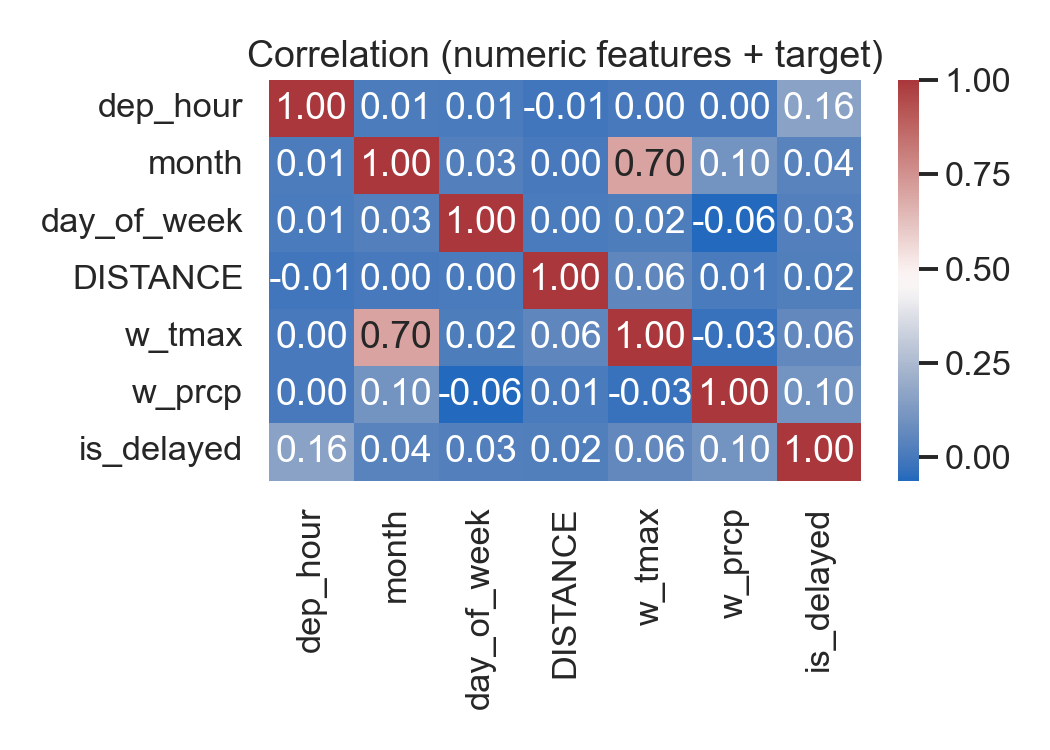
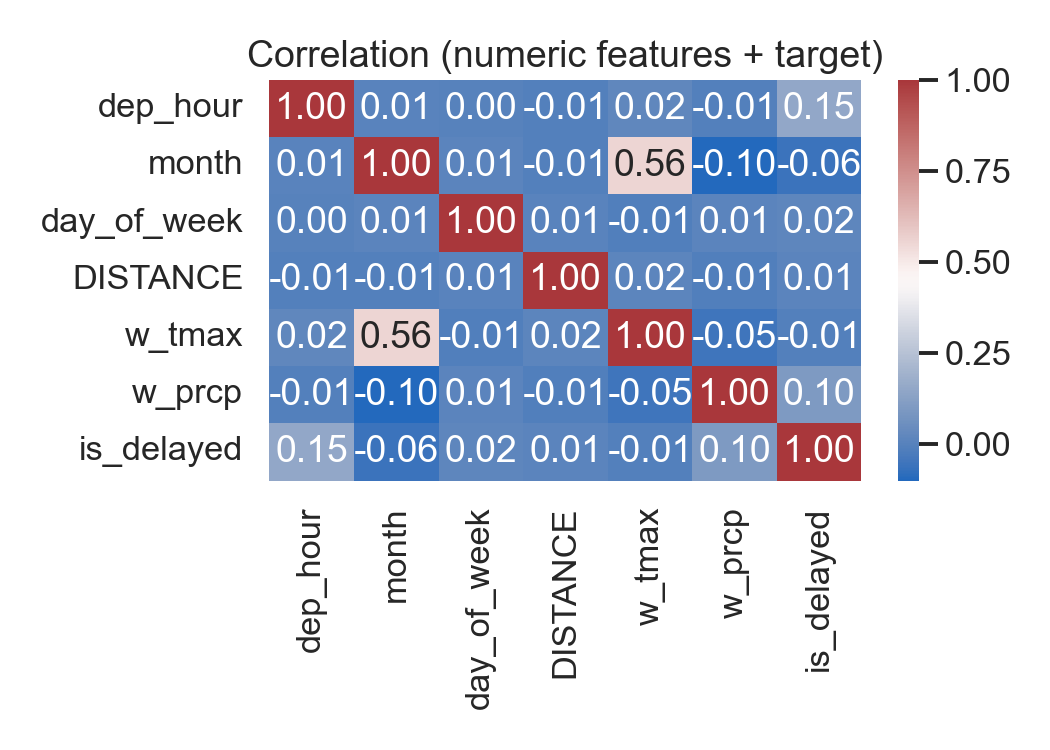
regenerating EDA on retrained data

diff --git a/reports/eda_summary.md b/reports/eda_summary.md
@@ -9,35 +9,34 @@
 ## 2) Summary statistics (key numeric features)
 | stat | dep_hour | month | day_of_week | DISTANCE | w_tmax | w_prcp |
 |---|---|---|---|---|---|---|
-| count | 150000.00 | 150000.00 | 150000.00 | 150000.00 | 2765.00 | 2556.00 |
-| mean | 13.47 | 3.59 | 2.99 | 809.49 | 20.17 | 3.48 |
-| std | 4.93 | 1.70 | 2.01 | 588.12 | 10.36 | 9.26 |
-| min | 0.02 | 1.00 | 0.00 | 31.00 | -22.70 | 0.00 |
-| 25% | 9.17 | 2.00 | 1.00 | 383.00 | 12.80 | 0.00 |
-| 50% | 13.38 | 4.00 | 3.00 | 657.00 | 20.60 | 0.00 |
-| 75% | 17.58 | 5.00 | 5.00 | 1050.00 | 28.90 | 2.00 |
-| max | 23.98 | 6.00 | 6.00 | 5095.00 | 45.00 | 90.40 |
+| count | 150000.00 | 150000.00 | 150000.00 | 150000.00 | 147775.00 | 137278.00 |
+| mean | 13.43 | 5.68 | 2.84 | 804.44 | 22.48 | 1.91 |
+| std | 4.93 | 3.32 | 2.01 | 589.48 | 10.35 | 6.76 |
+| min | 0.05 | 1.00 | 0.00 | 31.00 | -32.10 | 0.00 |
+| 25% | 9.15 | 4.00 | 1.00 | 372.00 | 16.10 | 0.00 |
+| 50% | 13.33 | 7.00 | 3.00 | 649.00 | 24.40 | 0.00 |
+| 75% | 17.53 | 10.00 | 5.00 | 1044.00 | 30.00 | 0.00 |
+| max | 23.98 | 10.00 | 6.00 | 5095.00 | 51.10 | 207.50 |
 
 - `dep_hour`: fractional hour (0–23) parsed from BTS `CRS_DEP_TIME`; spread across the full day.
 - `DISTANCE`: right-skewed (short hops dominate; long-haul flights are outliers handled by RobustScaler).
 - Weather columns (`w_*`) have high missing rates — median imputation applied in the model pipeline.
 
 ## 3) Target distribution (class balance)
-- Delay prevalence: **21.02%** delayed vs **78.98%** not delayed.
+- Delay prevalence: **20.62%** delayed vs **79.38%** not delayed.
 - Interpretation: class imbalance is present, so model evaluation should emphasize precision/recall/F1 (not accuracy alone).
 - Roadmap impact: use imbalance-aware evaluation and keep probability outputs for threshold tuning.
 
 ## 4) Distribution and pattern checks
-- Time-of-day effect: highest delay risk appears around hour **20:00** at **30.86%**.
+- Time-of-day effect: highest delay risk appears around hour **19:00** at **29.41%**.
 - Carrier-level variation indicates airline identity contributes useful signal.
 - Correlation matrix helps flag redundant numeric predictors before modeling.
 - Roadmap impact: retain hour and carrier features; monitor multicollinearity among numeric variables.
 
 ## 5) Outlier check and handling rationale
 - Method: IQR rule (`Q1 - 1.5*IQR`, `Q3 + 1.5*IQR`) on key numeric variables.
-- `w_prcp`: 463/2,556 potential outliers (18.11%).
-- `DISTANCE`: 8,424/150,000 potential outliers (5.62%).
-- `w_tmax`: 3/2,765 potential outliers (0.11%).
+- `DISTANCE`: 8,390/150,000 potential outliers (5.59%).
+- `w_tmax`: 1,729/147,775 potential outliers (1.17%).
 - `dep_hour`: 0/150,000 potential outliers (0.00%).
 - Handling policy: keep valid operational extremes (e.g., long-distance flights, extreme weather) and rely on robust models/tree splits; add clipping only if validation metrics degrade.
 - Roadmap impact: preserves real rare events while keeping a documented mitigation strategy.
